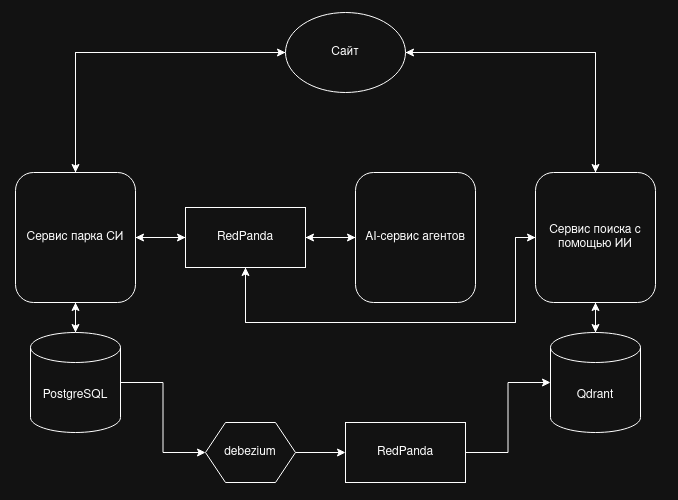
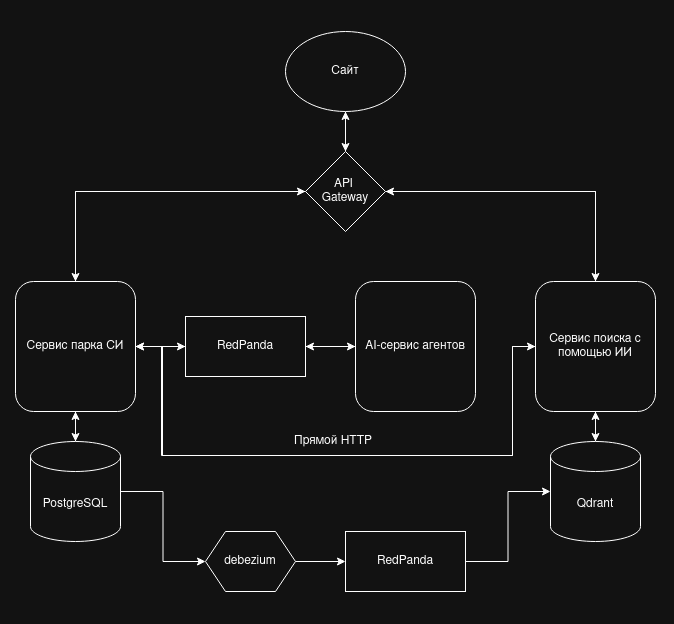
описание принипов работы + добавление плашек в Readme

diff --git a/doc/architecture.md b/doc/architecture.md
@@ -1,3 +1,64 @@
 # Архитектура проекта
 
 ![Архитектура](photo/arch.png)
+
+
+---
+
+## Описание работы
+
+### Принцип работы AI-powered поиска:
+В данном проекте выбор архитектурного решения пал на гибрида с прогрессивной загрузкой
+
+Общий механиз выглядит так:
+1. Пользователь набирает в поисковой строке то, что планирует найти
+2. система отправляет запрос в API Gateway
+3. API Gateway отправляет два параллельных запроса на поиск, один в сервис парка СИ для поиска по полнотекстовому индексу, второй для поиска значений в векторной базе
+4. В сервисе поиска с помощью ИИ, модель получает введённое пользователем значение, корнвертирует его в эмбеддинги и отправляет в сервис для получение данных из векторной базы
+5. Векторная база возвращает ID записей, которые мы используем при прямом HTTP-запросе к сервису парка СИ для получения данных
+6. Получаем нужные результаты 
+7. Возвращаем результат на клиент
+
+Обоснование выбора архитектурного подхода
+Выбран гибридный поиск с прогрессивной загрузкой результатов. Данное решение обусловлено следующими факторами:
+1. Ограничения полного дублирования данных в Qdrant
+Хранение полных JSON-карточек в Qdrant в качестве payload было отвергнуто по ряду причин:
+ - Qdrant не предназначен для частых обновлений. Векторная база оптимизирована под операции поиска ближайших соседей, а не под OLTP-нагрузку (постоянное изменение полей). При изменении цены, описания или статуса карточки в сервисе парка СИ потребуется перестраивать payload в Qdrant, что приведёт к деградации производительности
+ - Раздувание индекса. Увеличение объёма payload-данных напрямую влияет на потребление оперативной памяти и скорость поиска, так как Qdrant загружает payload в память. Это противоречит требованию масштабируемости системы при росте числа карточек
+ - Нарушение принципа Single Source of Truth. Дублирование данных создаёт риск рассинхронизации: парк-сервис и Qdrant могут содержать разные версии одной карточки, что недопустимо для поисковой выдачи
+2. Преимущества выбранного подхода
+ - Низкая связанность сервисов. Search Orchestrator взаимодействует с сервисом парка СИ только через стабильный API-контракт (GET /api/cards?ids=...), не зная внутреннего устройства базы данных и поискового индекса парк-сервиса
+ - Масштабируемость. Каждый сервис масштабируется независимо под свою нагрузку: парк-сервис — под запросы карточек, AI-сервис — под вычисление эмбеддингов, Qdrant — под векторный поиск
+ - Time to First Result. Благодаря прогрессивной загрузке через Server-Sent Events пользователь получает первые результаты от полнотекстового индекса за ≈50 мс, не дожидаясь завершения семантического поиска (≈400 мс). Это обеспечивает ощущение мгновенного отклика системы
+ - Отказоустойчивость. При недоступности AI-сервиса или Qdrant поиск продолжает работать, возвращая результаты полнотекстового индекса (graceful degradation)
+
+---
+
+### Принцип работы агента классификации СИ по сроку службы:
+
+Назначение: автоматическое выявление средств измерений (СИ), приближающихся к дате снятия с учёта, на основе анализа срока службы и данных метрологического учёта
+Принцип работы:
+1. Получает данные СИ из сервиса парка (дата ввода в эксплуатацию, межповерочный интервал, тип СИ)
+2. Классифицирует СИ по категориям: «в норме», «приближается к снятию», «требует замены»
+3. Формирует перечень СИ, требующих внимания, с указанием остаточного срока
+4. Результаты передаются в систему уведомлений (email/дашборд)
+
+Используемые методы: rule-based классификация с настраиваемыми порогами срабатывания
+Входные данные: записи СИ из PostgreSQL (сервис парка)
+Выходные данные: категоризированный список СИ с признаком срочности
+
+--- 
+
+### Принцип работы агента планирования закупок (прогнозная модель):
+Назначение: прогнозирование потребности в закупке новых средств измерений на основе исторических данных о списаниях, сроках службы и плановых объёмах поверок
+Принцип работы:
+1. Анализирует исторические данные: количество СИ, выбывающих по сроку службы за предыдущие периоды
+2. Учитывает прогнозные данные от агента классификации (ожидаемое снятие с учёта)
+3. Формирует прогноз потребности в закупках на следующий период (месяц/квартал/год)
+4. Ранжирует позиции по приоритетности: критические (точно выбывают) и рекомендуемые (вероятностный прогноз)
+
+Используемые методы: прогнозирование временных рядов (экспоненциальное сглаживание / скользящее среднее) + корректировка на данные агента классификации
+Входные данные: исторические данные списаний, результаты агента классификации, плановый график поверок
+Выходные данные: план закупок с указанием количества, типа СИ и приоритета
+
+---

diff --git a/README.md b/README.md
@@ -4,6 +4,8 @@
 ![Go](https://img.shields.io/badge/go-1.21%2B-00ADD8)
 ![PostgreSQL](https://img.shields.io/badge/PostgreSQL-15%2B-0064a5)
 ![Qdrant](https://img.shields.io/badge/Qdrant-latest-4B0082)
+![Docker](https://img.shields.io/badge/docker-24%2B-2496ED)
+![Redpanda](https://img.shields.io/badge/Redpanda-latest-FF4D00)
 
 ## О проекте
 **Metrolog** это набор специализированных ИИ агентов, предназначенных для работы с парком средств измерений (СИ)
